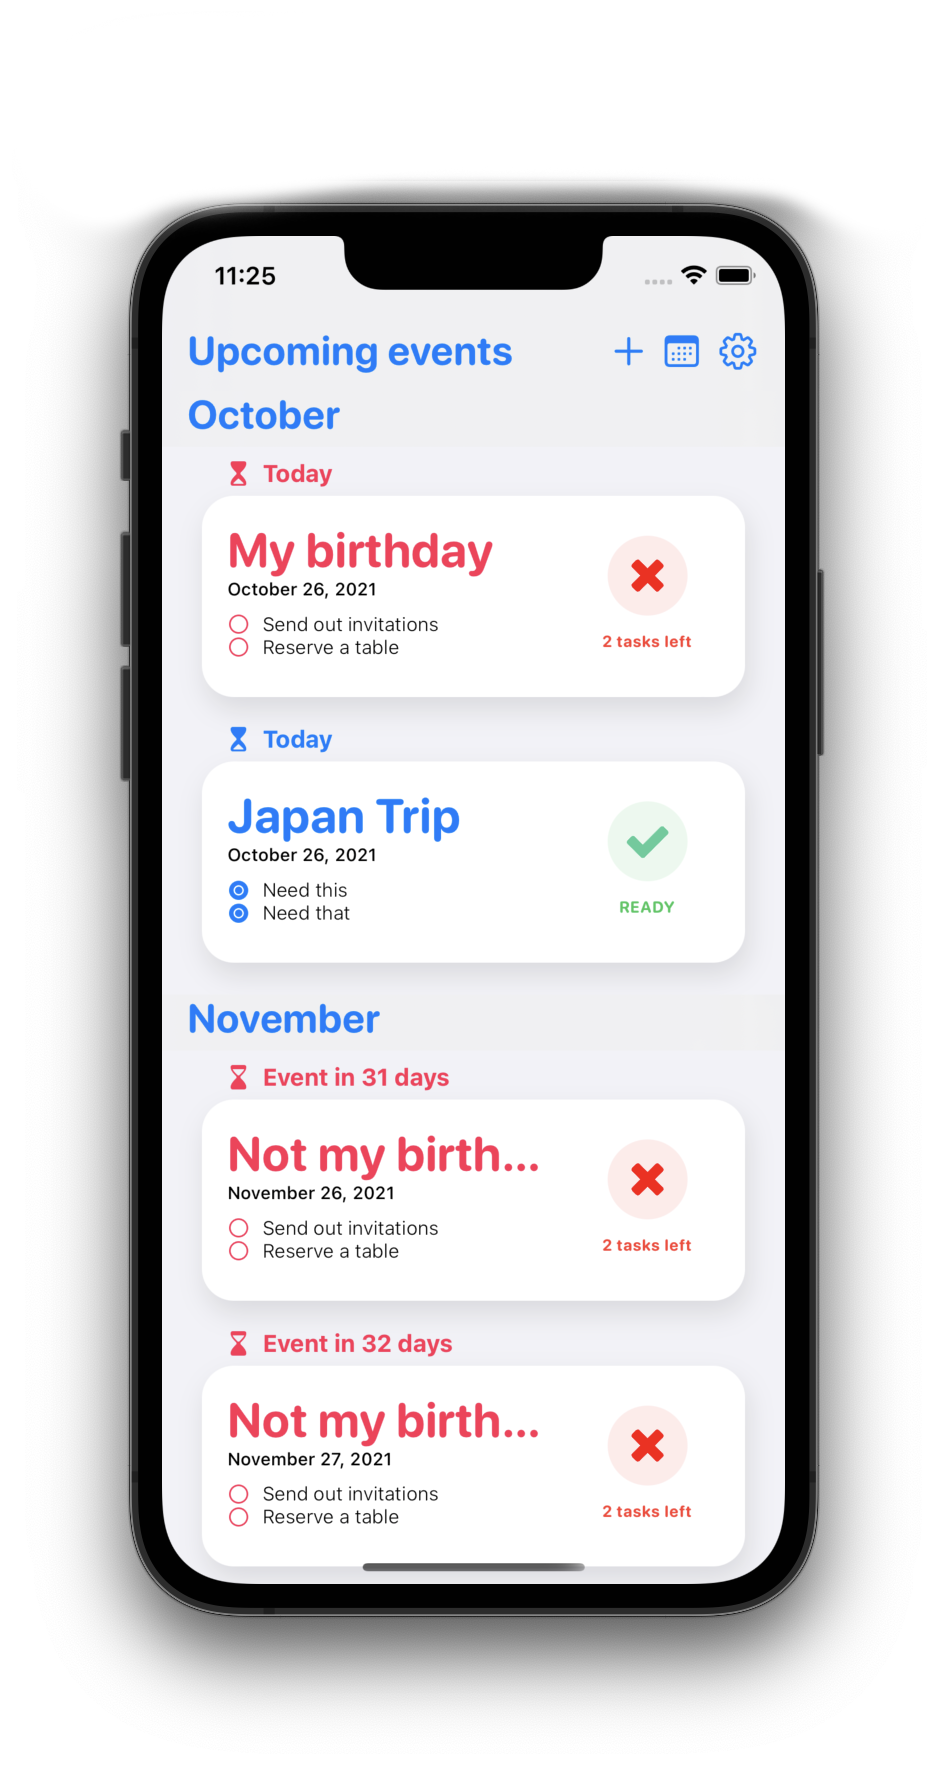
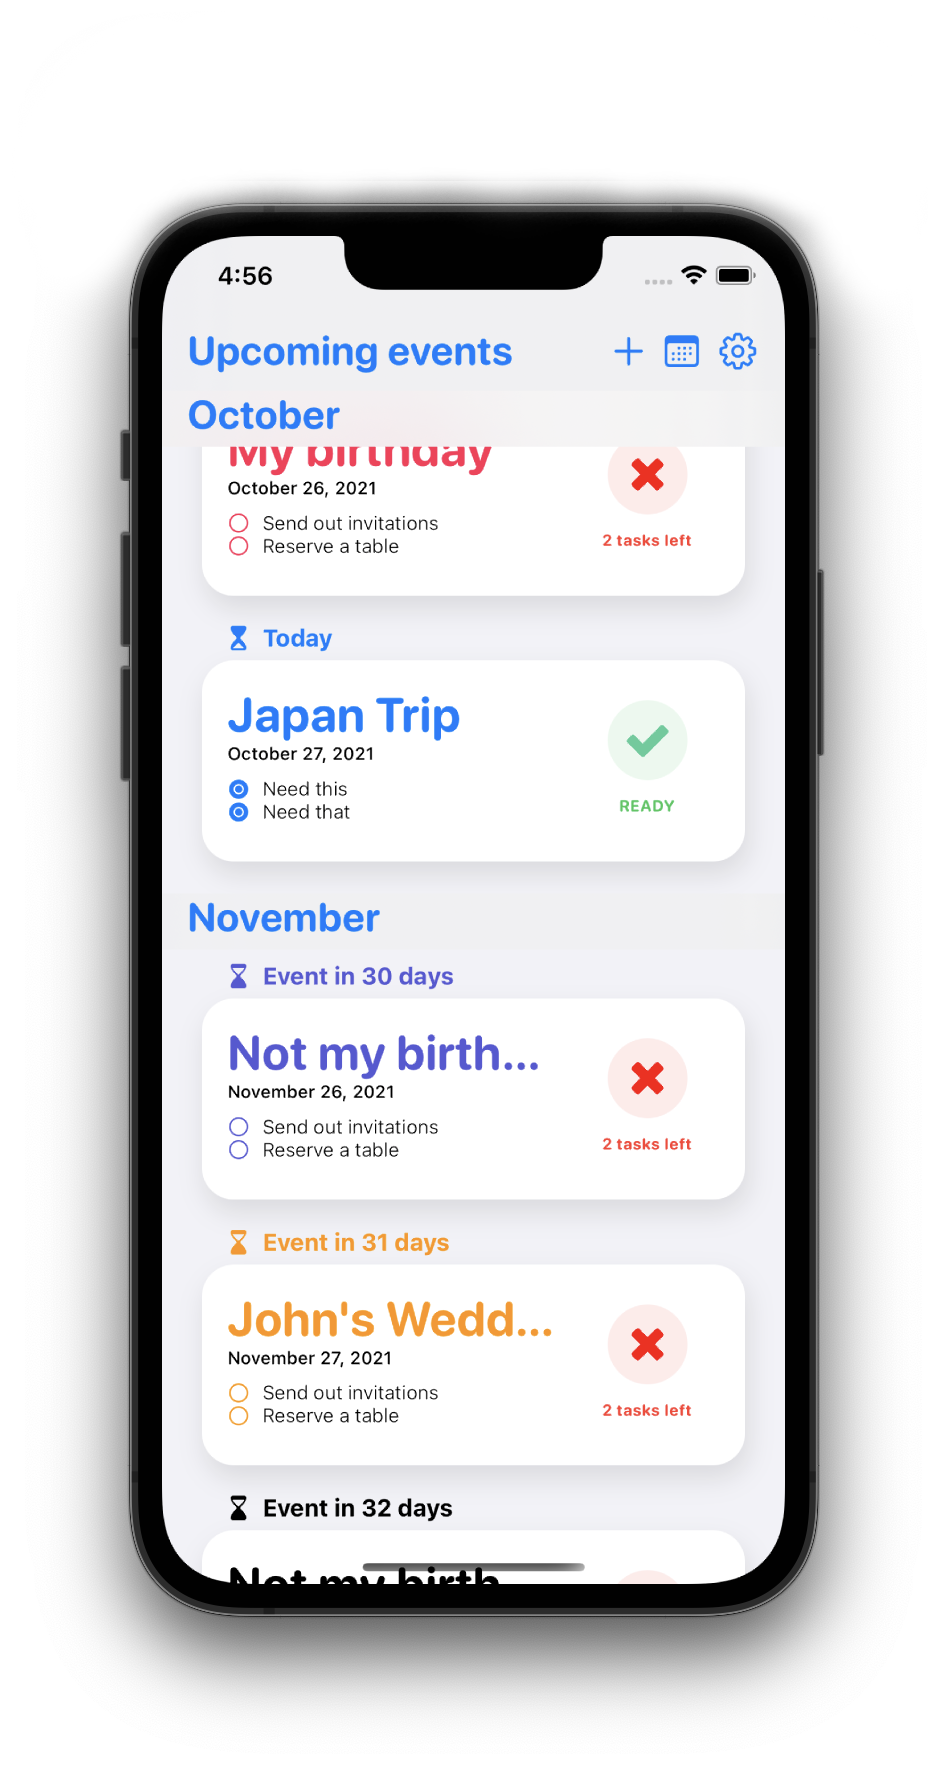
Replace Image

diff --git a/prep/ViewModel/EventViewModel.swift b/prep/ViewModel/EventViewModel.swift
@@ -35,9 +35,9 @@ class EventViewModel: ObservableObject {
     init(){
         events.append(Event(title: "Japan Trip", color: Color.blue, completionStatus: true, tasks: Task.data))
         events.append(Event(title: "My birthday", date: Date.init("2021-10-26"),color: Color.pink, completionStatus: false, tasks: Task.data2))
-        events.append(Event(title: "Not my birthday", date: Date.init("2021-11-26"),color: Color.pink, completionStatus: false, tasks: Task.data2))
-        events.append(Event(title: "Not my birthday", date: Date.init("2021-11-27"),color: Color.pink, completionStatus: false, tasks: Task.data2))
-        events.append(Event(title: "Not my birthday", date: Date.init("2021-11-28"),color: Color.pink, completionStatus: false, tasks: Task.data2))
+        events.append(Event(title: "Not my birthday", date: Date.init("2021-11-26"),color: Color.indigo, completionStatus: false, tasks: Task.data2))
+        events.append(Event(title: "John's Wedding", date: Date.init("2021-11-27"),color: Color.orange, completionStatus: false, tasks: Task.data2))
+        events.append(Event(title: "Not my birthday", date: Date.init("2021-11-28"),color: Color.black, completionStatus: false, tasks: Task.data2))
         events.append(Event(title: "Not my birthday", date: Date.init("2021-12-28"),color: Color.pink, completionStatus: false, tasks: Task.data2))
         events.append(Event(title: "Not my birthday", date: Date.init("2021-12-28"),color: Color.pink, completionStatus: false, tasks: Task.data2))
         events.append(Event(title: "Not my birthday", date: Date.init("2021-12-28"),color: Color.pink, completionStatus: false, tasks: Task.data2))

diff --git a/prep/prepApp.swift b/prep/prepApp.swift
@@ -12,7 +12,7 @@ struct prepApp: App {
     @StateObject var event = EventViewModel()
     var body: some Scene {
         WindowGroup {
-            OnBoardView()
+            MainView()
 //            EventFullView(event: Event(title: "Conference", date: Date.init("2021-11-26"),color: Color.indigo, completionStatus: false, tasks: Task.data2))
                 .environmentObject(event)
         }
